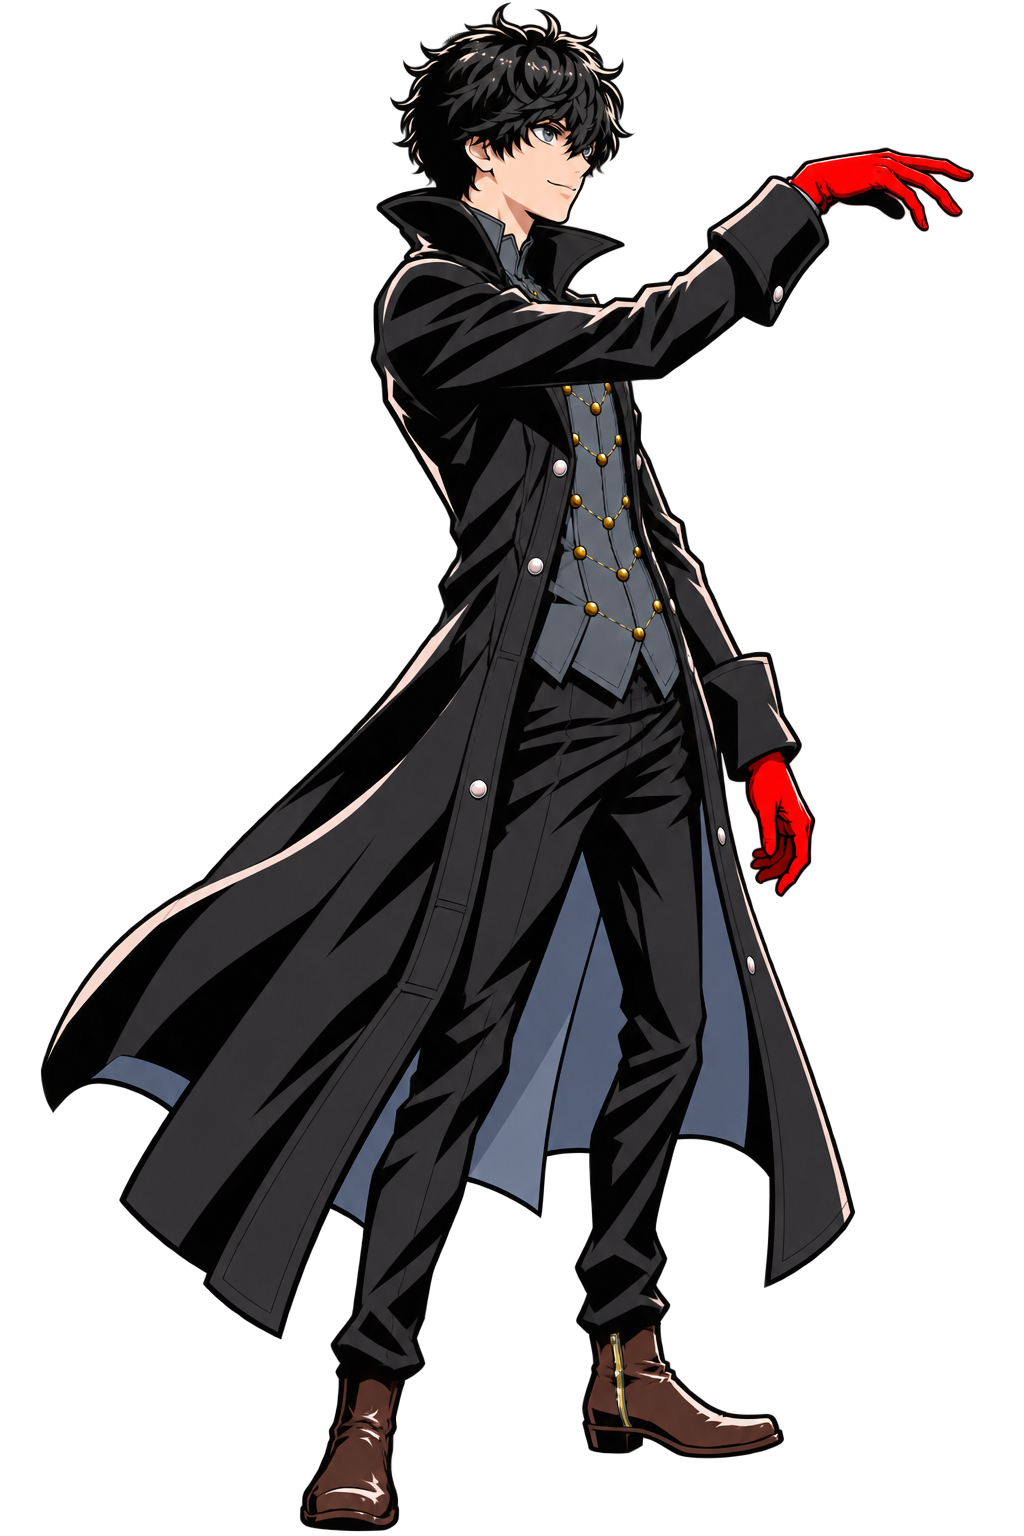
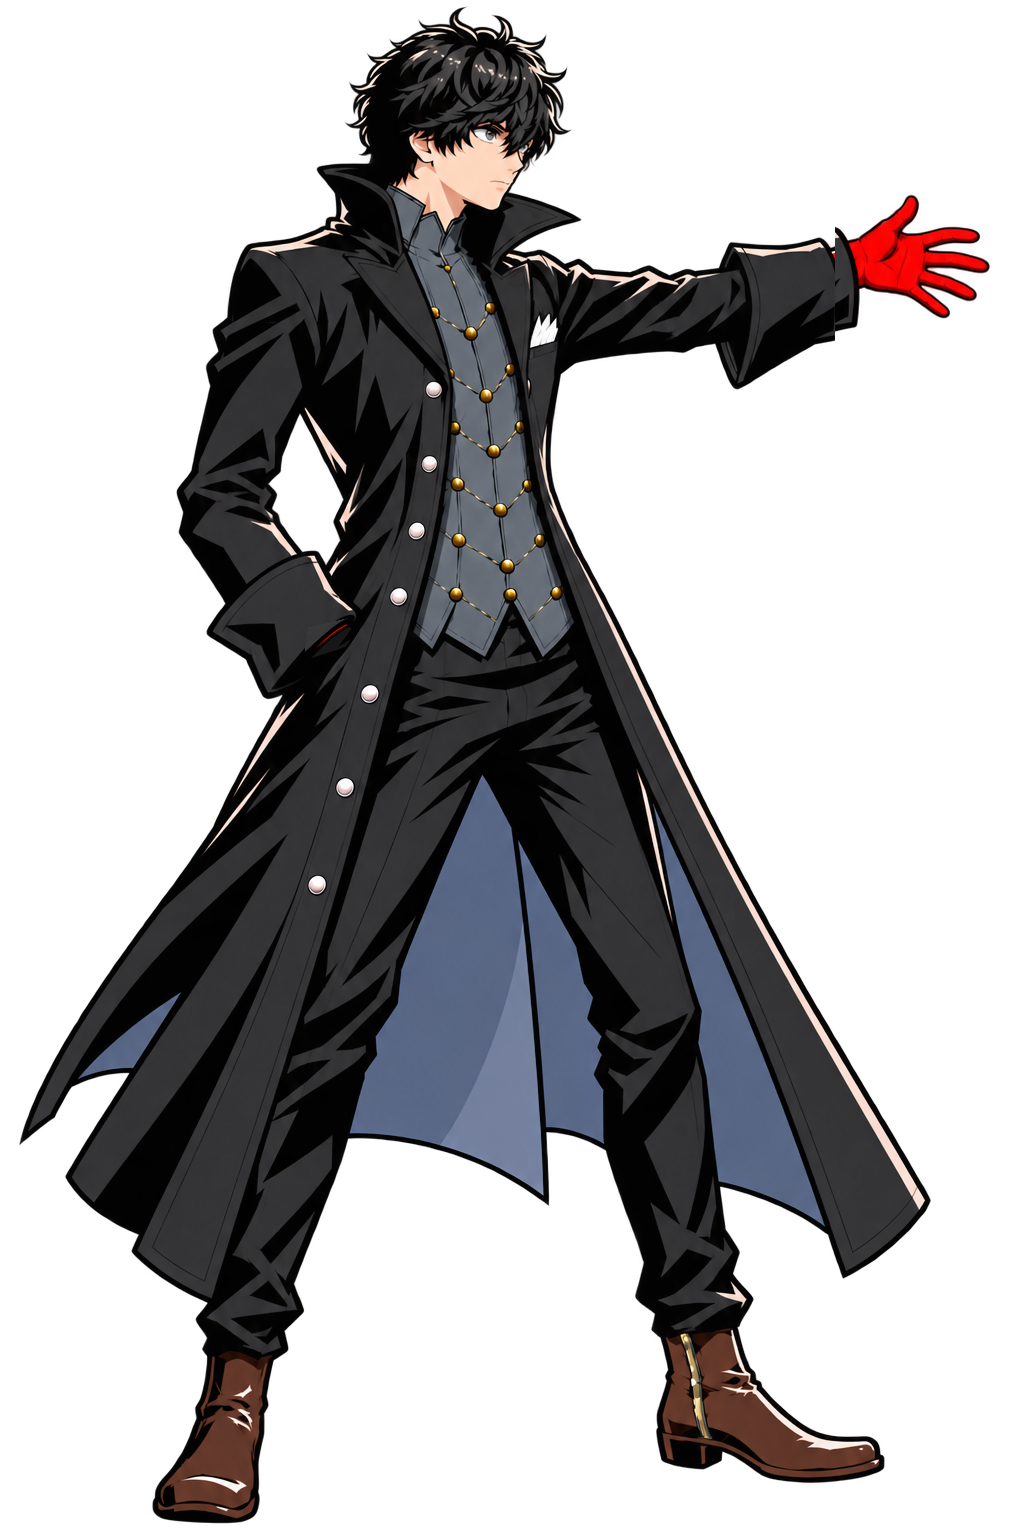
art: Joker summon command v3 (gun_aim_b with an open hand)

diff --git a/tools/p5/normalize_poses.py b/tools/p5/normalize_poses.py
@@ -25,7 +25,7 @@ TOP = 96  # and 96 px taller at the top
 # 1536x1632 final canvas as the others).
 # Scales are set by hand from head size and body length (chin to sole, for standing frames) against idle_a3;
 # automatic head measurement is unreliable because raised black sleeves touch the hair.
-POSES = {'idle_a3': (1.0, 'rear'), 'guard_a2': (1.0, 'front'), 'knife_ready_a': (0.96, 'rear'),
+POSES = {'summon_command_a': (1.0, 'rear'), 'summon_command_mid_a': (1.0, 'rear'), 'idle_a3': (1.0, 'rear'), 'guard_a2': (1.0, 'front'), 'knife_ready_a': (0.96, 'rear'),
          'slash_a3': (0.96, 'mid'), 'slash_follow_a': (0.96, 'mid'), 'slash_a7': (0.96, 'mid'), 'slash_a8': (0.96, 'mid'), 'slash_a9': (0.96, 'mid'), 'slash_a10': (0.96, 'mid'),
          'slash_mid_a': (0.96, 'mid'), 'slash_smear_a3': (0.96, 'mid'), 'guard_mid_a': (1.0, 'front'),
          'gun_draw_a2': (1.0, 'rear'), 'gun_a2': (1.03, 'rear'), 'gun_raise_a2': (1.03, 'rear'), 'gun_recoil_a6': (1.045, 'rear'),

diff --git a/art/p5/poses/REPORT_summon_command_v3.md b/art/p5/poses/REPORT_summon_command_v3.md
@@ -1,0 +1,24 @@
+# Joker 召唤指挥 v3
+
+已按 final/gun_aim_b、final/gun_arm_mid_h 作底图局部贴回，仅两只手区域改变；蒙版外改动像素均为 0。头、脸、躯干、腿、靴子和大衣保持底图。指挥帧去掉枪换成张开的红手套；中间帧右手本来就空着，保留原样，只改左手插裤兜。左手仅留窄腕部，手掌和手指藏入兜内。
+
+生成：完整手部修改结果一次、插兜局部补图一次；无安全拒绝，无自动重画。完整生成结果没有整张交付，而是取手部局部按源画布坐标贴回。两个 source final 都是 1536×1632；依照原 normalize.json 的 offset 反推到 1024×1536 原图，未缩放身体。两张只运行一次归一化，比例 1.0、rear，输出偏移与源完全一致。normalize.json 合并保留旧条目。
+
+完整提示词、输入和贴回方法见各自 generation.json。check_command_v3.png 含全身及手部对照。手部观感及接缝最终交用户验收，不将检查数字等同于美术定稿。
+
+## 检查输出
+
+```text
+summon_command_a   head x1.000  body x1.000  boot height x1.000  boot width x1.000  feet moved [0, 0] px  ok
+sheet: tmp\sts2_vfx_20261102\command_refs\check_summon_command_a.png | overall: ok
+summon_command_mid_a head x1.000  body x1.000  boot height x1.000  boot width x1.000  feet moved [0, 0] px  ok
+sheet: tmp\sts2_vfx_20261102\command_refs\check_summon_command_mid_a.png | overall: ok
+{"summon_command_a": {"scale": 1.0, "offset": [343, 99], "anchor_foot": "rear"}, "summon_command_mid_a": {"scale": 1.0, "offset": [342, 99], "anchor_foot": "rear"}}
+   summon_hold_a -> summon_command_mid_a overlap 0.33  face moved   189  feet moved [383, 7]  (allowed)
+summon_command_mid_a -> summon_command_a overlap 0.87  face moved     3  feet moved [0, 0]  (allowed)
+0 jump(s); overlays: sts2_tools\tmp\sts2_vfx_20261102\seq_summon_hold_a_summon_command_a.png
+```
+
+注意：hold→mid 的脸和后脚仍移动较大，按任务允许作为挥臂加插兜爆发动作放行；不是自然连续过渡已验证。未据此补帧。检查使用远端更新的纯 numpy 替代脚本，临时目录运行，不安装依赖，不覆盖仓库其他脚本。
+
+独立推送分支 codex/p5-joker-command-v3，不 fetch、不 merge。后续任务为亚森 v7 拆层。
